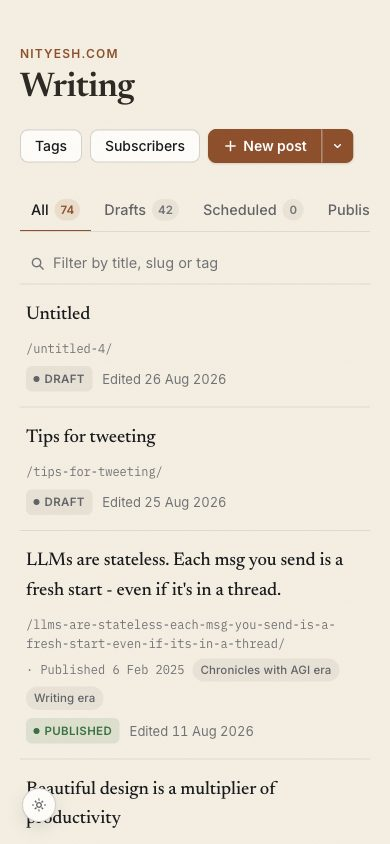
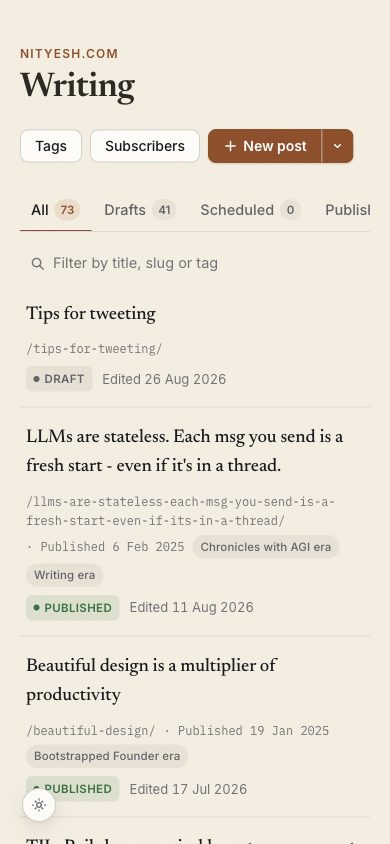
One more count that failed the floor, and the before/after at 390
.dash-tab__count sits on its own 5% tint, where --w-faint reads 4.10:1 even after the
lift — bold 11.5px is not large text. It takes --w-muted, 5.20 there, the same move the
Draft pill got. The active count was measured too and passes at 5.10.

Dashboard shots retaken with the tab counts in frame, and the 390 pair the slice owed.

diff --git a/app/assets/stylesheets/application.css b/app/assets/stylesheets/application.css
@@ -934,7 +934,8 @@ html.preview-phone .preview-frame {
 }
 .dash-tab:hover { color: var(--w-ink); }
 .dash-tab[aria-pressed="true"] { color: var(--w-ink); border-bottom-color: var(--w-accent); }
-.dash-tab__count { font-size: 1.15rem; font-weight: 600; color: var(--w-faint); background: rgba(0, 0, 0, .05); border-radius: 20px; padding: .15rem .6rem; min-width: 2.1rem; text-align: center; }
+/* The token, not faint: the count sits on its own 5% tint, where faint reads 4.10:1. */
+.dash-tab__count { font-size: 1.15rem; font-weight: 600; color: var(--w-muted); background: rgba(0, 0, 0, .05); border-radius: 20px; padding: .15rem .6rem; min-width: 2.1rem; text-align: center; }
 .dash-tab[aria-pressed="true"] .dash-tab__count { color: var(--w-accent); background: rgba(180, 83, 9, .12); }
 
 /* Filter-as-you-type. Full width under the tabs, because the list it narrows is that
@@ -1477,9 +1478,11 @@ body.html-card .gh-content, body.html-card .kg-card { margin: 0; }
 .shortcut-sheet__table tr:first-child td { border-top: 0; }
 .shortcut-sheet__foot { padding: 1.2rem 1.8rem 1.6rem; font-size: 1.25rem; color: var(--w-muted); }
 
-/* The keys themselves, wherever the workbench prints them. Scoped to the writing body:
-   a <kbd> inside a published post is the reader's typography, not this. */
-.writing-app kbd {
+/* The keys themselves, in the two places the workbench prints them. Named rather than
+   scoped to `.writing-app`, which would reach into the canvas and restyle a <kbd> the
+   writer typed — the editor's prose has to look like the published page. */
+.shortcut-sheet kbd,
+.settings-panel__aside kbd {
   display: inline-block; padding: .2rem .55rem; min-width: 2.2rem; text-align: center;
   font-family: var(--font-sans); font-size: 1.25rem; font-weight: 600; line-height: 1.4;
   color: var(--w-ink); background: var(--w-surface);
